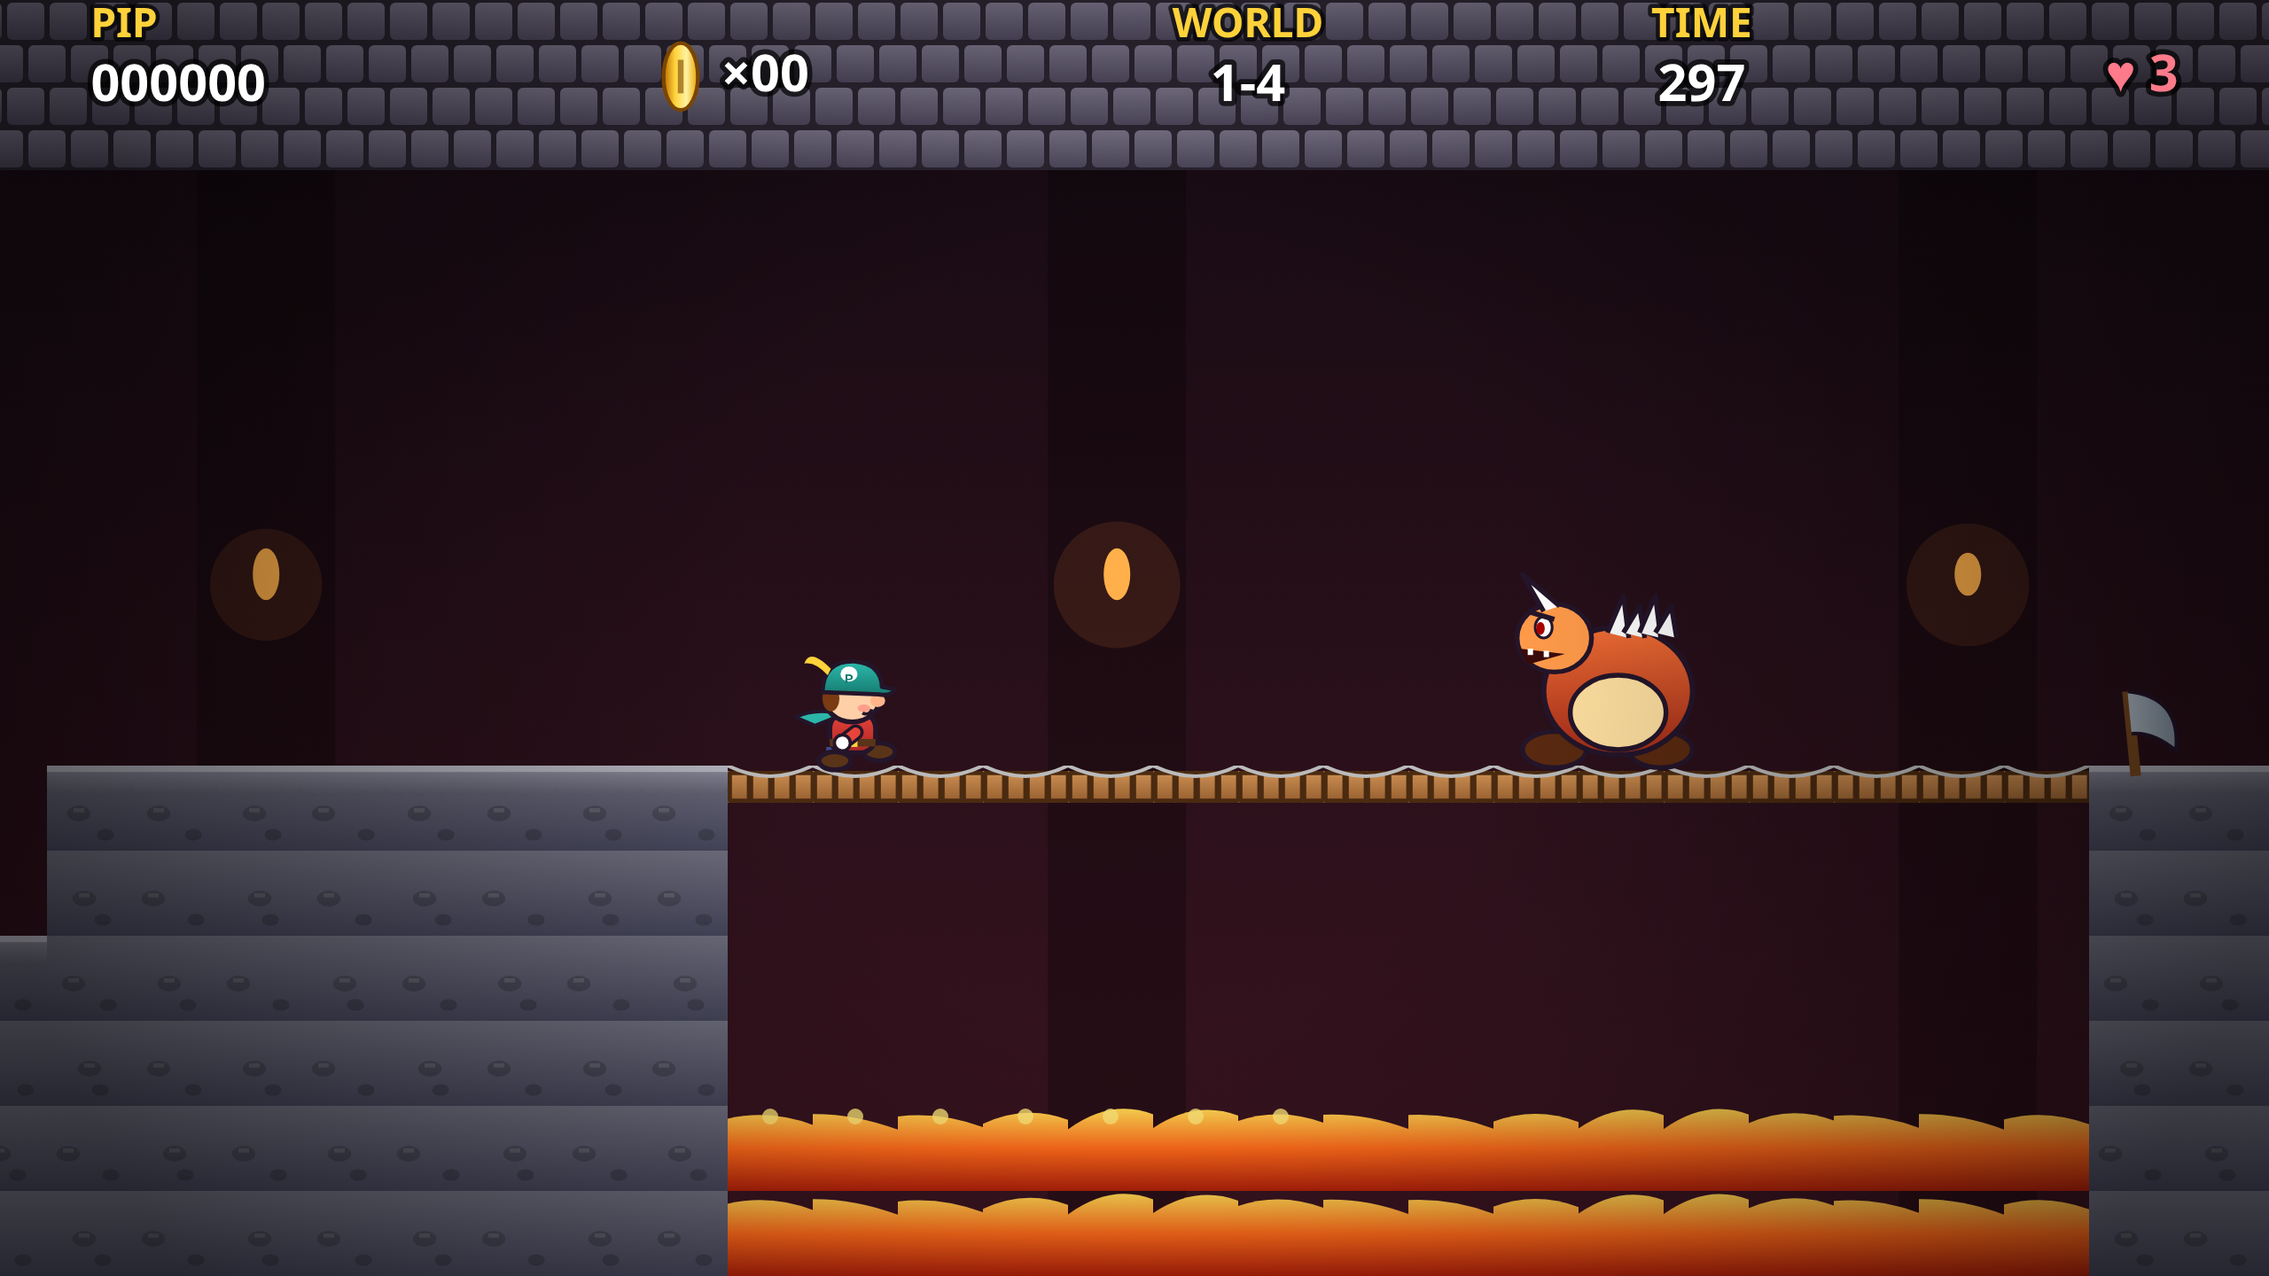
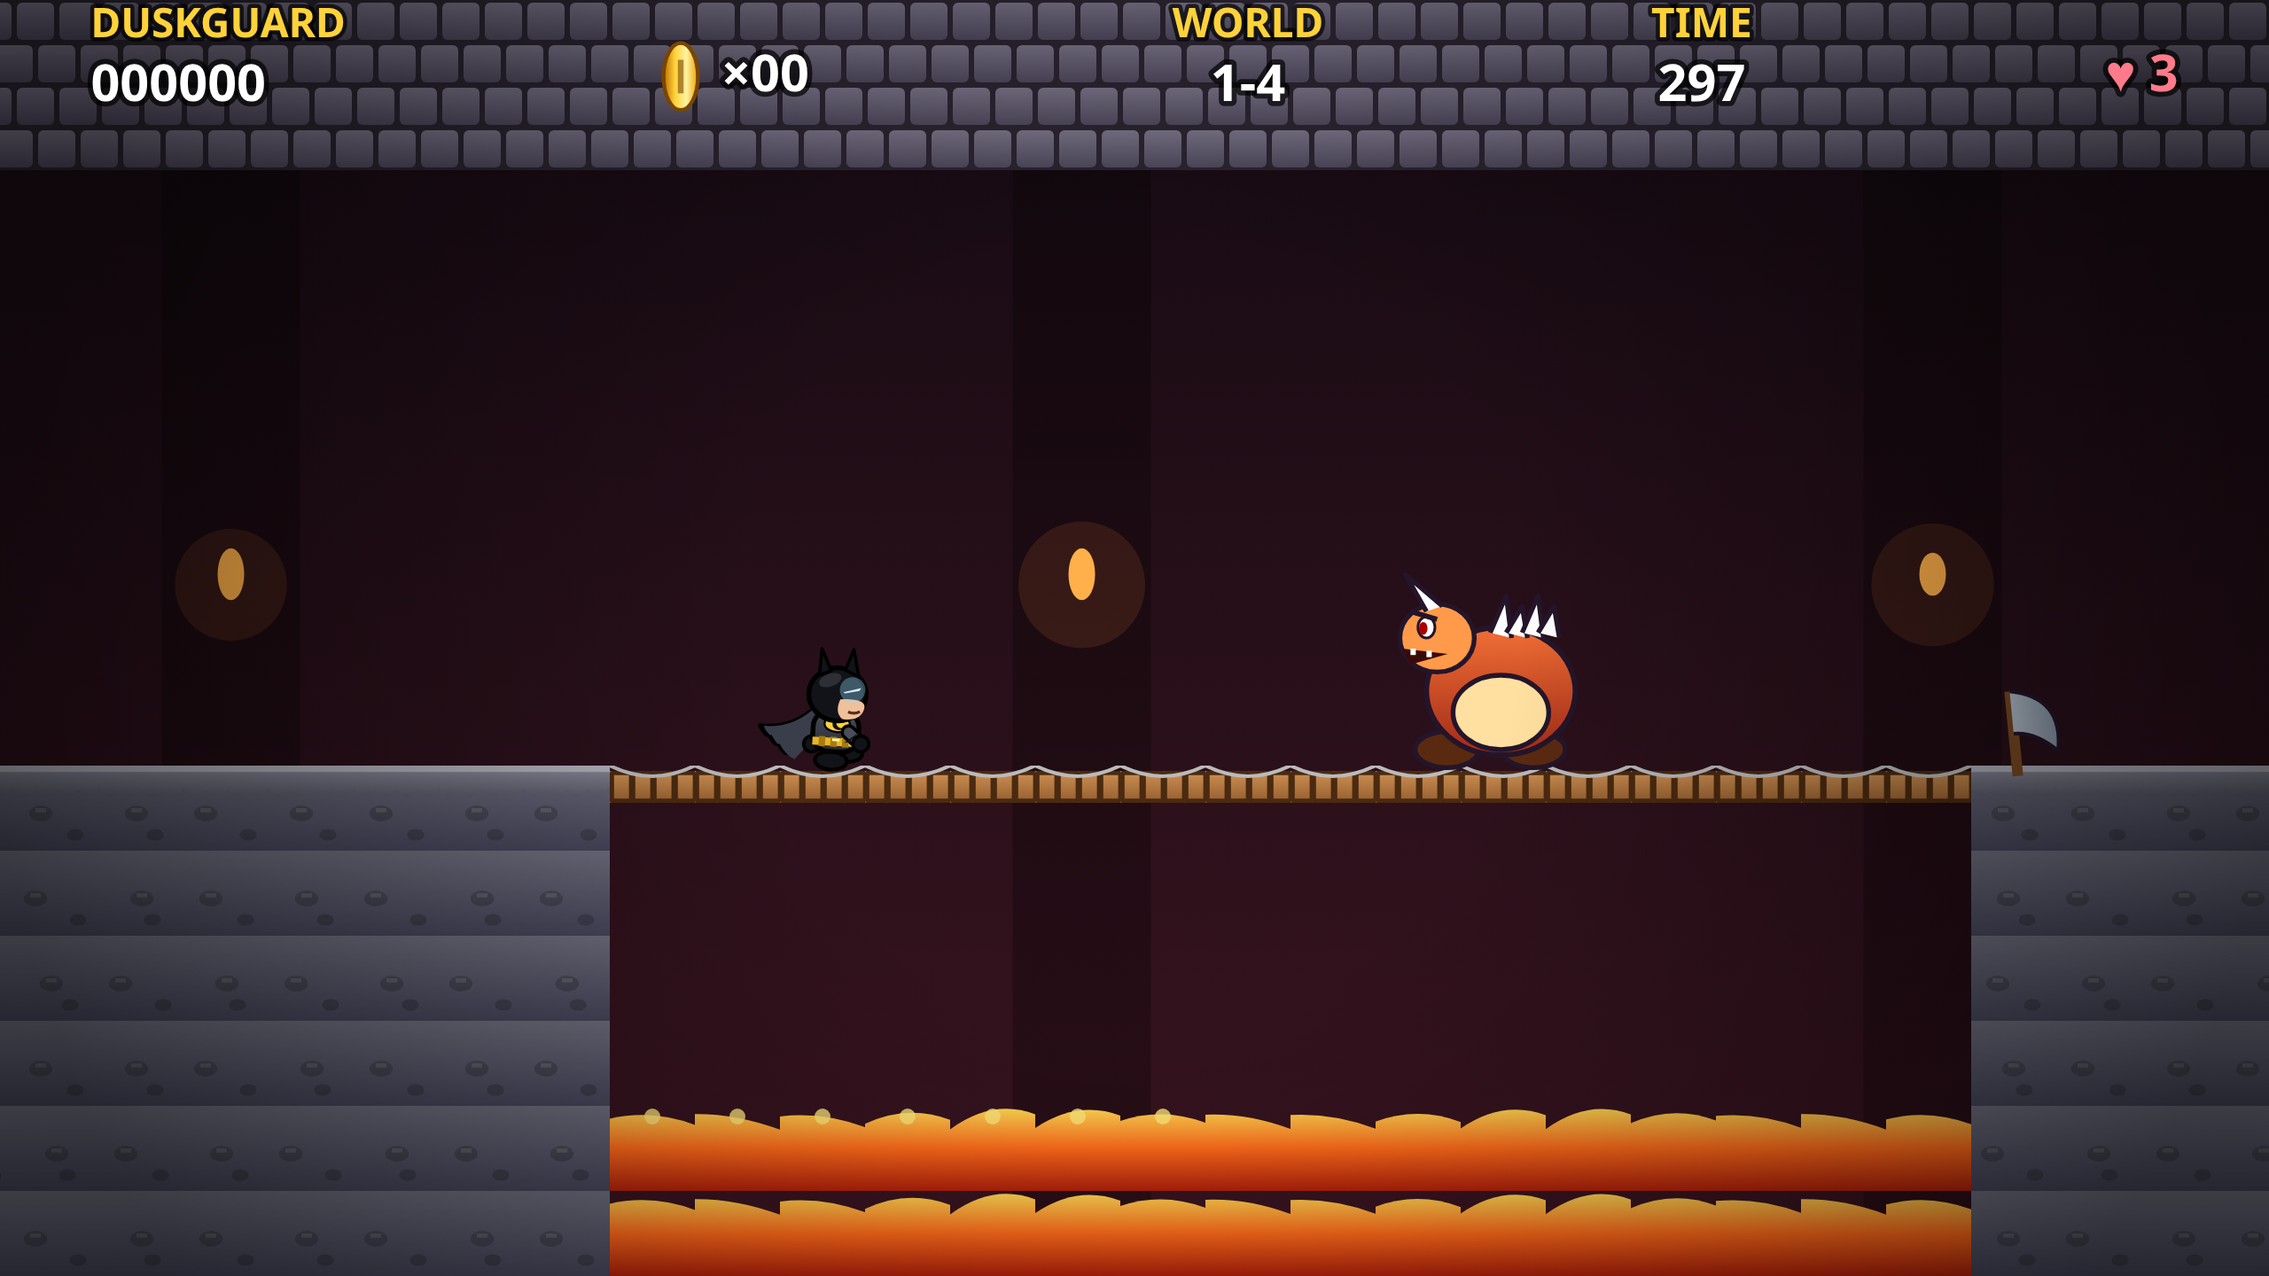
Duskguard hero with cape physics and glide, Up/W jump, ~17% faster movement, 1-1 pit retune

diff --git a/index.html b/index.html
@@ -30,7 +30,7 @@ function resize(){DPR=Math.min(window.devicePixelRatio||1,3);CW=Math.round(inner
 addEventListener('resize',resize);
 // ---------------- INPUT ----------------
 const K={left:0,right:0,up:0,down:0,jump:0,run:0,pause:0,start:0};
-const KM={ArrowLeft:'left',KeyA:'left',ArrowRight:'right',KeyD:'right',ArrowUp:'up',KeyW:'up',ArrowDown:'down',KeyS:'down',
+const KM={ArrowLeft:'left',KeyA:'left',ArrowRight:'right',KeyD:'right',ArrowUp:'jump',KeyW:'jump',ArrowDown:'down',KeyS:'down',
  KeyZ:'jump',Space:'jump',KeyX:'run',ShiftLeft:'run',ShiftRight:'run',KeyP:'pause',Escape:'pause',Enter:'start',KeyM:'mute'};
 let keyK={},touchK={},padK={};
 addEventListener('keydown',e=>{const k=KM[e.code];if(k){e.preventDefault();if(k==='mute'&&!e.repeat){muted=!muted;if(master)master.gain.value=muted?0:.5;}keyK[k]=1;}audioInit();});
@@ -110,14 +110,14 @@ function flag(a,x){st(a,x,12,'F');a.flagX=x;a.castleX=x+4;}
 function bonusRoom(retArea,retX){const b=mk(18,'under');ground(b,0,17);for(let y=0;y<13;y++){st(b,0,y,'B');}row(b,1,1,'BBBBBBBBBBBBBBBBB');
  for(let y=6;y<=10;y+=2)coins(b,4,y,9);row(b,3,11,'XXXXXXXXXXX');coins(b,4,10,9);
  pipe(b,15,2,{area:retArea,x:retX,up:true});b.startX=2*16;b.dark=1;return b;}
-function L11(){const a=mk(212,'over');ground(a,0,68);ground(a,71,85);ground(a,89,152);ground(a,155,211);
+function L11(){const a=mk(212,'over');ground(a,0,71);ground(a,74,85);ground(a,89,152);ground(a,155,211);
  row(a,16,9,'?');row(a,20,9,'BMB?B');row(a,22,5,'?');coins(a,30,7,3);
  pipe(a,28,2);pipe(a,38,3);pipe(a,46,4,{area:'bonus',x:0});pipe(a,57,4);
  row(a,62,8,'1');row(a,77,9,'BMB');row(a,80,5,'BBBBBBBB');row(a,91,5,'BBB?');row(a,94,9,'C');
  row(a,100,9,'B*');row(a,106,9,'?  ?  ?');row(a,109,5,'M');row(a,118,9,'B');row(a,121,5,'BBB');row(a,128,5,'B??B');row(a,129,9,'BB');
  stairs(a,134,4);stairs(a,140,4,false);stairs(a,148,5);ground(a,153,154,12);for(let i=0;i<4;i++)st(a,153,12-i,'X'),st(a,154,12-i,'X');
  stairs(a,155,4,false);pipe(a,163,2);row(a,168,9,'BB?B');pipe(a,179,2);stairs(a,181,8);for(let y=5;y<=12;y++)st(a,189,y,'X');
- coins(a,70,9,2);coins(a,86,8,3);coins(a,141,6,2);
+ coins(a,72,9,2);coins(a,86,8,3);coins(a,141,6,2);
  flag(a,198);
  [[22,'g'],[40,'g'],[51,'g'],[53,'g'],[80,'g',4],[82,'g',4],[97,'g'],[99,'g'],[107,'k'],[114,'g'],[116,'g'],[124,'g'],[126,'g'],[128,'g'],[130,'g'],[174,'g'],[176,'g'],[60,'k']].forEach(e=>en(a,e[1],e[0],e[2]||12));
  a.startX=3*16;a.time=400;a.music='over';a.areas={bonus:bonusRoom('main',61*16)};return a;}
@@ -214,9 +214,9 @@ function updatePlayer(){const p=P;p.px=p.x;p.py=p.y;
  if(flagS){updateFlag();return;}
  if(p.grow>0){p.grow--;return;}
  const run=K.run,dir=(K.right?1:0)-(K.left?1:0);p.ducking=p.big&&K.down&&p.onG;
- const maxV=run?2.6:1.55;let acc=p.onG?(run?.075:.055):.05;
+ const maxV=run?3.05:1.8;let acc=p.onG?(run?.088:.065):.059;
  p.skid=0;
- if(dir&&!p.ducking){if(p.vx*dir<0){p.vx+=dir*(p.onG?.2:.1);if(p.onG&&Math.abs(p.vx)>.6){p.skid=1;if(frame%4===0)dust(p.x+p.w/2,p.y+p.h,1);}}
+ if(dir&&!p.ducking){if(p.vx*dir<0){p.vx+=dir*(p.onG?.23:.12);if(p.onG&&Math.abs(p.vx)>.6){p.skid=1;if(frame%4===0)dust(p.x+p.w/2,p.y+p.h,1);}}
   else if(Math.abs(p.vx)<maxV)p.vx+=dir*acc*(1-.5*Math.pow(Math.abs(p.vx)/maxV,2));else if(p.onG)p.vx-=Math.sign(p.vx)*.04;
   if(p.onG)p.face=dir;}
  else if(p.onG){const f=p.ducking?.08:.06;if(Math.abs(p.vx)<=f)p.vx=0;else p.vx-=Math.sign(p.vx)*f;}
@@ -230,7 +230,7 @@ function updatePlayer(){const p=P;p.px=p.x;p.py=p.y;
  const wasG=p.onG,vyB=p.vy;
  // lift carry
  if(p.lift){p.x+=p.lift.x-p.lift.px;p.y=p.lift.y-p.h;}
- const r=phys(p,grav,4.5);
+ p.glide=!p.onG&&K.jump&&p.vy>0;const r=phys(p,grav,p.glide?2:4.5);
  if(p.lift){if(p.x+p.w<p.lift.x||p.x>p.lift.x+p.lift.w||p.vy<0)p.lift=null;else{p.onG=1;p.vy=0;p.y=p.lift.y-p.h;}}
  for(const l of ents)if(l.t==='lift'&&!p.lift&&p.vy>=0&&p.x+p.w>l.x&&p.x<l.x+l.w&&p.py+p.h<=l.py+3&&p.y+p.h>=l.y){p.lift=l;p.y=l.y-p.h;p.vy=0;p.onG=1;}
  if(p.x<cam.x)p.x=cam.x,p.vx=Math.max(0,p.vx);
@@ -428,47 +428,59 @@ function coinG(x,y,ph,sc=1){const w=Math.abs(Math.cos(ph))*5*sc+.6;ctx.fillStyle
  ctx.strokeStyle='#7a4500';ctx.lineWidth=.8;ctx.stroke();if(w>2){ctx.fillStyle='rgba(122,69,0,.6)';ctx.fillRect(x-.6,y-3.5*sc,1.2,7*sc);}}
 // ---- characters ----
 function E(x,y,rx,ry,fill,stroke=OL,lw=.9){ctx.beginPath();ctx.ellipse(x,y,Math.max(.01,rx),Math.max(.01,ry),0,0,7);ctx.fillStyle=fill;ctx.fill();if(stroke){ctx.strokeStyle=stroke;ctx.lineWidth=lw;ctx.stroke();}}
-function drawHero(p,x,y){// x,y = feet center
+function drawHero(p,x,y){// Duskguard: original caped vigilante
  ctx.save();ctx.translate(x,y);const sc=p.big?1.65:1;let sx=1/Math.sqrt(p.sq),sy=p.sq;if(p.ducking)sy*=.7;
  ctx.scale(p.face*sc*sx,sc*sy);
  if(p.inv>0&&(frame>>2)%2)ctx.globalAlpha=.35;
  const fire=p.fire,starC=p.star>0?`hsl(${frame*12%360},90%,60%)`:null;
- const tunic=starC||(fire?'#ffffff':'#e8443a'),tunic2=fire?'#d8d8e8':'#a82424',cap=starC||(fire?'#ff8a1a':'#2bb6a8'),cap2=fire?'#c45a00':'#167a70';
+ const suit=fire?'#2a3a6a':'#4a4e5a',suit2=fire?'#141c3a':'#24262e',dark='#121318',capeC=starC||(fire?'#1a1a2a':'#16171d'),lining=fire?'#ff7a1a':'#3a3d4a';
  const air=!p.onG&&!p.dead,run=Math.abs(p.vx)>.1&&p.onG,ph=p.ph;
  let lA=0,lB=0,armA=0,lean=0;
- if(p.dead){armA=-2.4;}else if(air){lA=p.vy<0?-3:-1.5;lB=p.vy<0?2.5:1;armA=p.vy<0?-2.2:-1.6;}
- else if(p.skid){lA=3;lB=1;lean=-.25;armA=-1.2;}else if(run){lA=Math.sin(ph)*3.4;lB=-lA;armA=Math.sin(ph)*.9;}
+ if(p.dead){armA=-2.4;}else if(air){lA=p.vy<0?-3:-1.5;lB=p.vy<0?2.5:1;armA=p.glide?-1.9:p.vy<0?-2.2:-1.6;}
+ else if(p.skid){lA=3;lB=1;lean=-.25;armA=-1.2;}else if(run){lA=Math.sin(ph)*3.4;lB=-lA;armA=Math.sin(ph)*.9;lean=Math.min(.12,Math.abs(p.vx)*.04);}
  ctx.rotate(lean);const bob=run?Math.abs(Math.cos(ph))*-.8:Math.sin(frame*.05)*.2;
- // scarf
- const sw=Math.sin(frame*.3)*1.2;ctx.fillStyle=cap;ctx.beginPath();ctx.moveTo(-2,-9.5+bob);ctx.quadraticCurveTo(-6,-10+sw,-9-Math.min(3,Math.abs(p.vx)*1.5),-8+sw);ctx.lineTo(-7,-7.5);ctx.closePath();ctx.fill();ctx.strokeStyle=OL;ctx.lineWidth=.7;ctx.stroke();
+ // cape spring physics (angle behind body, radians from straight down)
+ const sp=Math.abs(p.vx||0),tgt=Math.min(1.35,sp*.42+(air?(p.vy<0?.25:.9+(p.glide?.35:0)):0))+(p.skid?-.3:0);
+ if(p.capeA==null){p.capeA=tgt;p.capeV=0;}
+ if(p.lastCapeF!==frame){p.lastCapeF=frame;p.capeV+=(tgt-p.capeA)*.08;p.capeV*=.82;p.capeA+=p.capeV;}
+ const ca=p.capeA,Lc=p.glide?12.5:11,fl=Math.sin(frame*.35+ph)*(.6+sp*.5),fl2=Math.cos(frame*.5)*(.4+sp*.4);
+ const shx=-1.5,shy=-10+bob,tx=shx-Math.sin(ca)*Lc,ty=shy+Math.cos(ca)*Lc;
+ const draw=(col,ins)=>{ctx.beginPath();ctx.moveTo(shx+2.5,shy);ctx.quadraticCurveTo(shx+1-Math.sin(ca)*5,shy+Math.cos(ca)*5+fl,tx+ins+fl2*.5,ty+ins);
+  // scalloped hem
+  const nx=Math.cos(ca),ny=Math.sin(ca);for(let k=1;k<=3;k++){const bx=tx-nx*k*2.4*(1-ins*.1),by=ty-ny*k*2.4;ctx.quadraticCurveTo(bx+nx*1.2+fl2,by+ny*1.2+1.4,bx,by);}
+  ctx.quadraticCurveTo(shx-4-Math.sin(ca)*4,shy+Math.cos(ca)*4+fl*.6,shx-2.5,shy-.5);ctx.closePath();ctx.fillStyle=col;ctx.fill();};
+ draw(capeC,0);ctx.strokeStyle='#000';ctx.lineWidth=.8;ctx.stroke();draw(lining,1.2);
  // back arm
- limb(-1.5,-7+bob,-armA*.8,tunic2);
+ limb(-1.5,-7+bob,-armA*.8,suit2,dark);
  // legs
- const leg=(dx,lift,col)=>{ctx.save();ctx.translate(dx,-3.5);ctx.fillStyle='#3b4a8a';ctx.fillRect(-1.5,0,3,2.5-lift*.2);E(dx*.2+.8,2.6-Math.max(0,lift)*.5,3,1.7,'#5a3418');ctx.restore();};
- leg(lB*.7-1,lB,0);leg(lA*.7+1.2,lA,0);
+ const leg=(dx,lift)=>{ctx.save();ctx.translate(dx,-3.5);ctx.fillStyle=suit2;ctx.fillRect(-1.5,0,3,2.5-lift*.2);E(dx*.2+.8,2.6-Math.max(0,lift)*.5,3,1.7,dark,'#000',.7);ctx.restore();};
+ leg(lB*.7-1,lB);leg(lA*.7+1.2,lA);
  // body
- ctx.fillStyle=lg(ctx,0,-10+bob,0,-2,[tunic,tunic2]);rr(ctx,-4.2,-10+bob,8.6,7.6,3);ctx.fill();ctx.strokeStyle=OL;ctx.lineWidth=.9;ctx.stroke();
- ctx.fillStyle='#5a3418';ctx.fillRect(-4.2,-5+bob,8.6,1.4);ctx.fillStyle='#ffd23a';ctx.fillRect(-.8,-5.1+bob,1.8,1.6);
- // head
- const hy=-13.2+bob;E(0,hy,5.4,5,'#ffd0a8');
- E(4.8,hy+1,1.4,1.2,'#ffb48a',null);// nose
- E(2.2,hy+2.4,1.2,.7,'rgba(255,110,110,.5)',null);
- // eye
- if(p.dead){ctx.strokeStyle=OL;ctx.lineWidth=.8;ctx.beginPath();ctx.moveTo(1.2,hy-1.8);ctx.lineTo(3.4,hy+.2);ctx.moveTo(3.4,hy-1.8);ctx.lineTo(1.2,hy+.2);ctx.stroke();}
- else if(p.blink){ctx.strokeStyle=OL;ctx.lineWidth=.8;ctx.beginPath();ctx.moveTo(1.2,hy-.6);ctx.lineTo(3.6,hy-.6);ctx.stroke();}
- else{E(2.4,hy-.8,1.3,1.9,'#fff',OL,.5);E(2.9,hy-.5,.75,1.2,'#1a1030',null);E(3.2,hy-1.2,.3,.35,'#fff',null);}
- // brows / mouth
- ctx.strokeStyle=OL;ctx.lineWidth=.6;ctx.beginPath();ctx.moveTo(1.2,hy-3.2);ctx.lineTo(3.6,hy-3.4+(p.skid?.8:0));ctx.stroke();
- ctx.beginPath();if(air||p.skid)ctx.ellipse(3,hy+3,.8,.7,0,0,7);else ctx.arc(2.6,hy+2.4,1.1,.2,2.2);ctx.stroke();
- // hair tuft & cap
- E(-4,hy+.6,1.6,2.4,'#7a3a12',null);
- ctx.fillStyle=lg(ctx,0,hy-6,0,hy,[cap,cap2]);ctx.beginPath();ctx.moveTo(-5.6,hy-.6);ctx.quadraticCurveTo(-5.4,hy-6.6,.4,hy-6.4);ctx.quadraticCurveTo(5.4,hy-6,5.6,hy-1.6);ctx.lineTo(8,hy-1.2);ctx.quadraticCurveTo(7.6,hy+.2,5,hy-.2);ctx.lineTo(-5.6,hy-.6);ctx.closePath();ctx.fill();ctx.strokeStyle=OL;ctx.lineWidth=.8;ctx.stroke();
- E(-.6,hy-4,1.6,1.4,'#fff',null);ctx.fillStyle=fire?'#c45a00':'#167a70';ctx.font='bold 2.4px sans-serif';ctx.textAlign='center';ctx.fillText('P',-.6,hy-3.1);
- ctx.fillStyle='#ffd23a';ctx.beginPath();ctx.moveTo(-4,hy-5);ctx.quadraticCurveTo(-8,hy-9,-9,hy-6);ctx.quadraticCurveTo(-7,hy-6.4,-4.6,hy-3.8);ctx.fill();// feather
+ ctx.fillStyle=lg(ctx,0,-10+bob,0,-2,[suit,suit2]);rr(ctx,-4.2,-10+bob,8.6,7.6,3);ctx.fill();ctx.strokeStyle='#000';ctx.lineWidth=.9;ctx.stroke();
+ ctx.strokeStyle='rgba(255,255,255,.18)';ctx.lineWidth=.5;ctx.beginPath();ctx.moveTo(-2.5,-8.6+bob);ctx.quadraticCurveTo(0,-7.6+bob,2.8,-8.6+bob);ctx.stroke();
+ // emblem: original crescent moon in a yellow oval
+ E(.3,-7.6+bob,2.4,1.5,'#ffd23a','#000',.4);E(.6,-7.6+bob,1.2,1.1,'#111',null);E(1.1,-7.9+bob,1,1,'#ffd23a',null);
+ // utility belt
+ ctx.fillStyle='#e8b520';ctx.fillRect(-4.2,-5+bob,8.6,1.5);ctx.fillStyle='#a87a10';for(let i=-3;i<4;i+=2.2)ctx.fillRect(i,-5.2+bob,1.2,1.9);ctx.fillStyle='#fff4b0';ctx.fillRect(-.5,-4.9+bob,1.4,.5);
+ // head with cowl
+ const hy=-13.2+bob;
+ E(0,hy,5.4,5,dark,'#000',.9);
+ // pointed ears
+ ctx.fillStyle=dark;ctx.beginPath();ctx.moveTo(-3.6,hy-3.4);ctx.lineTo(-3.4,hy-8.4);ctx.lineTo(-1.4,hy-4.4);ctx.closePath();ctx.moveTo(1.2,hy-4.6);ctx.lineTo(2.6,hy-8.6);ctx.lineTo(3.8,hy-3.6);ctx.closePath();ctx.fill();ctx.strokeStyle='#000';ctx.lineWidth=.6;ctx.stroke();
+ ctx.fillStyle='rgba(255,255,255,.12)';ctx.beginPath();ctx.ellipse(-1.5,hy-2.6,2.2,1.2,-.4,0,7);ctx.fill();
+ // jaw (exposed skin)
+ ctx.fillStyle='#f0c09a';ctx.beginPath();ctx.moveTo(.6,hy+.9);ctx.quadraticCurveTo(5.6,hy+.4,5.2,hy+2.4);ctx.quadraticCurveTo(4.6,hy+4.9,1.2,hy+4.6);ctx.quadraticCurveTo(-.4,hy+3.4,.6,hy+.9);ctx.fill();
+ // eyes: white lenses
+ if(p.dead){ctx.strokeStyle='#fff';ctx.lineWidth=.8;ctx.beginPath();ctx.moveTo(1.4,hy-2);ctx.lineTo(3.6,hy);ctx.moveTo(3.6,hy-2);ctx.lineTo(1.4,hy);ctx.stroke();}
+ else{const eh=p.blink?.25:1.05;ctx.fillStyle='#f4fbff';ctx.beginPath();ctx.moveTo(1.1,hy-1.2+(1-eh));ctx.lineTo(4.4,hy-1.9+(1-eh)*.6);ctx.lineTo(4.1,hy-1.1+eh*.8);ctx.lineTo(1.4,hy-.4+eh*.6);ctx.closePath();ctx.fill();
+  ctx.fillStyle='rgba(150,220,255,.35)';ctx.beginPath();ctx.arc(2.8,hy-1,2.4,0,7);ctx.fill();}
+ // mouth
+ ctx.strokeStyle='#5a2a1a';ctx.lineWidth=.55;ctx.beginPath();if(air||p.skid)ctx.ellipse(3.4,hy+3.1,.7,.6,0,0,7);else{ctx.moveTo(2.2,hy+3.2);ctx.quadraticCurveTo(3.4,hy+(p.dead?2.6:3.6),4.4,hy+3);}ctx.stroke();
  // front arm
- limb(1.6,-7+bob,armA+(p.throwT>0?-1.4:0),tunic);
+ limb(1.6,-7+bob,armA+(p.throwT>0?-1.4:0),suit,dark);
  ctx.restore();}
-function limb(x,y,a,col){ctx.save();ctx.translate(x,y);ctx.rotate(a);ctx.fillStyle=col;rr(ctx,-1.2,0,2.4,4.2,1.2);ctx.fill();ctx.strokeStyle=OL;ctx.lineWidth=.6;ctx.stroke();E(0,4.4,1.5,1.5,'#fff',OL,.6);ctx.restore();}
+function limb(x,y,a,col,glove){ctx.save();ctx.translate(x,y);ctx.rotate(a);ctx.fillStyle=col;rr(ctx,-1.2,0,2.4,4.2,1.2);ctx.fill();ctx.strokeStyle='#000';ctx.lineWidth=.6;ctx.stroke();
+ ctx.fillStyle=glove||'#121318';ctx.beginPath();ctx.moveTo(-1.3,2.6);ctx.lineTo(-2,2);ctx.lineTo(1.3,2.6);ctx.fill();E(0,4.4,1.5,1.5,glove||'#121318','#000',.6);ctx.restore();}
 function drawGrumble(e,x,y){ctx.save();ctx.translate(x,y);ctx.scale(1,e.dead===1?.35:1);if(e.dead===2)ctx.scale(1,-1),ctx.translate(0,14);
  const w=Math.sin(e.ph)*2;E(-4+w,-1.6,3.4,2,'#3a2010');E(4-w,-1.6,3.4,2,'#3a2010');
  E(0,-5,5,4.2,'#f7dfb4');// stem face
@@ -537,7 +549,7 @@ function render(alpha){ctx.setTransform(1,0,0,1,0,0);ctx.imageSmoothingEnabled=t
  hud();if(state==='pause'){ctx.fillStyle='rgba(0,0,0,.5)';ctx.fillRect(0,0,CW,CH);bigText('PAUSED',CW/2,CH/2,'#fff',CH*.08);smallText('Press P / Esc to resume',CW/2,CH/2+CH*.08);}}
 function bigText(t,x,y,col,sz){ctx.font=`900 ${sz}px system-ui,sans-serif`;ctx.textAlign='center';ctx.textBaseline='middle';ctx.lineJoin='round';ctx.lineWidth=sz*.18;ctx.strokeStyle='#24152a';ctx.strokeText(t,x,y);ctx.fillStyle=col;ctx.fillText(t,x,y);}
 function smallText(t,x,y,col='#fff',sz=CH*.035,al='center'){ctx.font=`700 ${sz}px system-ui,sans-serif`;ctx.textAlign=al;ctx.textBaseline='middle';ctx.lineWidth=sz*.2;ctx.strokeStyle='rgba(0,0,0,.7)';ctx.strokeText(t,x,y);ctx.fillStyle=col;ctx.fillText(t,x,y);}
-function hud(){const sz=CH*.04,y=CH*.06,m=CW*.04;smallText('PIP',m,y-sz,'#ffd23a',sz*.8,'left');smallText(String(score).padStart(6,'0'),m,y+sz*.2,'#fff',sz,'left');
+function hud(){const sz=CH*.04,y=CH*.06,m=CW*.04;smallText('DUSKGUARD',m,y-sz,'#ffd23a',sz*.8,'left');smallText(String(score).padStart(6,'0'),m,y+sz*.2,'#fff',sz,'left');
  ctx.save();ctx.translate(CW*.3,y);ctx.scale(S*.9,S*.9);coinG(0,0,frame*.08);ctx.restore();smallText('×'+String(coinCount).padStart(2,'0'),CW*.3+sz*.8,y,'#fff',sz,'left');
  smallText('WORLD',CW*.55,y-sz,'#ffd23a',sz*.8);smallText(LEVELS[levelIdx].n,CW*.55,y+sz*.2,'#fff',sz);
  smallText('TIME',CW*.75,y-sz,'#ffd23a',sz*.8);smallText(String(timeLeft),CW*.75,y+sz*.2,timeLeft<100&&frame%30<15?'#ff6a6a':'#fff',sz);
@@ -549,7 +561,7 @@ function renderTitle(){area={theme:'over',w:999,g:[],bumps:{},deco:[]};drawBG(ti
  const bob=Math.sin(frame*.05)*CH*.01;bigText('PIXEL',CW/2,CH*.24+bob,'#ffd23a',CH*.14);bigText('QUEST',CW/2,CH*.38+bob,'#5ae8d8',CH*.14);
  if(frame%60<40)smallText(('ontouchstart' in window)?'TAP TO START':'PRESS ENTER / SPACE TO START',CW/2,CH*.56,'#fff',CH*.045);
  smallText('HIGH SCORE  '+String(hiScore).padStart(6,'0'),CW/2,CH*.64,'#ffe9a8',CH*.035);
- smallText('Move: ←→ / A D   Jump: Z / Space   Run & Fire: X / Shift   Pause: P   Mute: M',CW/2,CH*.96,'rgba(255,255,255,.85)',CH*.026);}
+ smallText('Move: ←→ / A D   Jump: Z / Space / ↑ / W   Run & Fire: X / Shift   Pause: P   Mute: M',CW/2,CH*.96,'rgba(255,255,255,.85)',CH*.026);}
 function renderIntro(){ctx.fillStyle='#0d0a18';ctx.fillRect(0,0,CW,CH);bigText('WORLD '+LEVELS[levelIdx].n,CW/2,CH*.4,'#fff',CH*.08);
  ctx.save();ctx.translate(CW/2-CH*.06,CH*.58);ctx.scale(S*1.6,S*1.6);drawHero({face:1,big:startBig,fire:startFire,sq:1,vx:0,onG:1,ph:0,inv:0,star:0,blink:frame%120<6,skid:0,throwT:0},0,8);ctx.restore();
  smallText('×  '+lives,CW/2+CH*.06,CH*.56,'#fff',CH*.05);smallText('SCORE '+String(score).padStart(6,'0'),CW/2,CH*.75,'#ffd23a',CH*.035);}

diff --git a/README.md b/README.md
@@ -7,7 +7,7 @@ An original side-scrolling platformer inspired by classic 1985-era platform game
 ## Features
 - Momentum-based running with skidding, variable jump height, coyote time and jump buffering
 - Fixed 60 Hz simulation with render interpolation and a smooth camera that looks ahead
-- High-DPI vector-style art: Pip the hero, Grumbles (mushroom critters) and Snappers (kickable shells)
+- High-DPI vector-style art: Duskguard, an original caped vigilante with a spring-physics cape that flutters and lets you glide slightly if you hold jump while falling,, Grumbles (mushroom critters) and Snappers (kickable shells)
 - ? blocks, breakable bricks, Sproutcap (grow), Ember Bloom (fireballs), Prism Star (invincibility), 1-ups, and 100 coins for an extra life
 - Worlds 1-1 to 1-4: overworld, underground with a bonus pipe, athletic treetops with lifts, and a castle with firebars, a boss, a bridge and an axe
 - Chiptune music and sound effects, a title screen, pause, and a high score saved in localStorage
@@ -18,7 +18,8 @@ An original side-scrolling platformer inspired by classic 1985-era platform game
 |---|---|
 | Move | Arrow keys / A, D |
 | Duck / enter pipe | Down / S |
-| Jump | Z / Space |
+| Glide | Hold jump while falling |
+| Jump | Z / Space / Up / W |
 | Run / fire | X / Shift |
 | Pause | P / Esc |
 | Mute | M |
